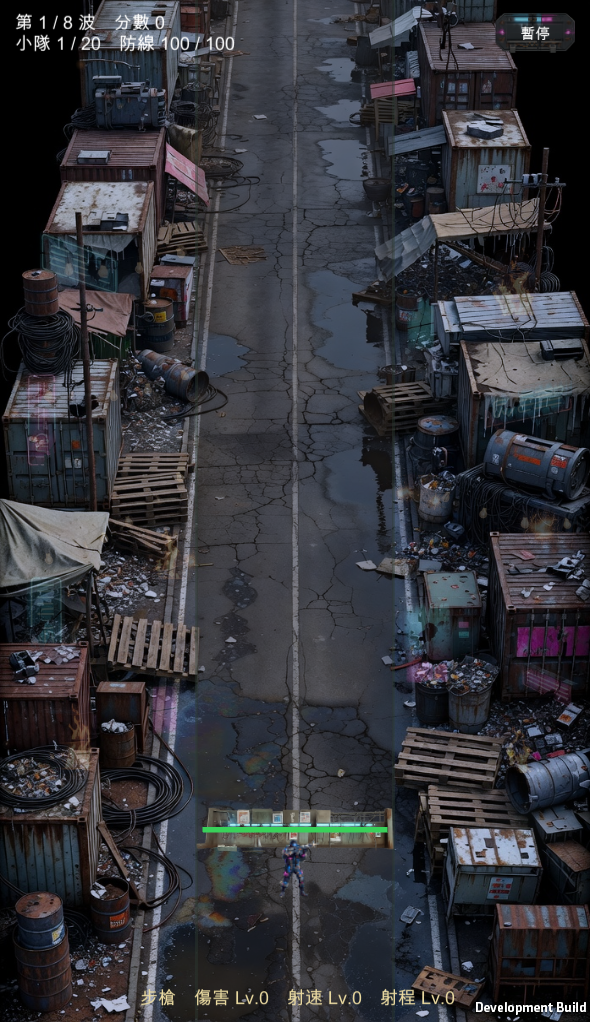
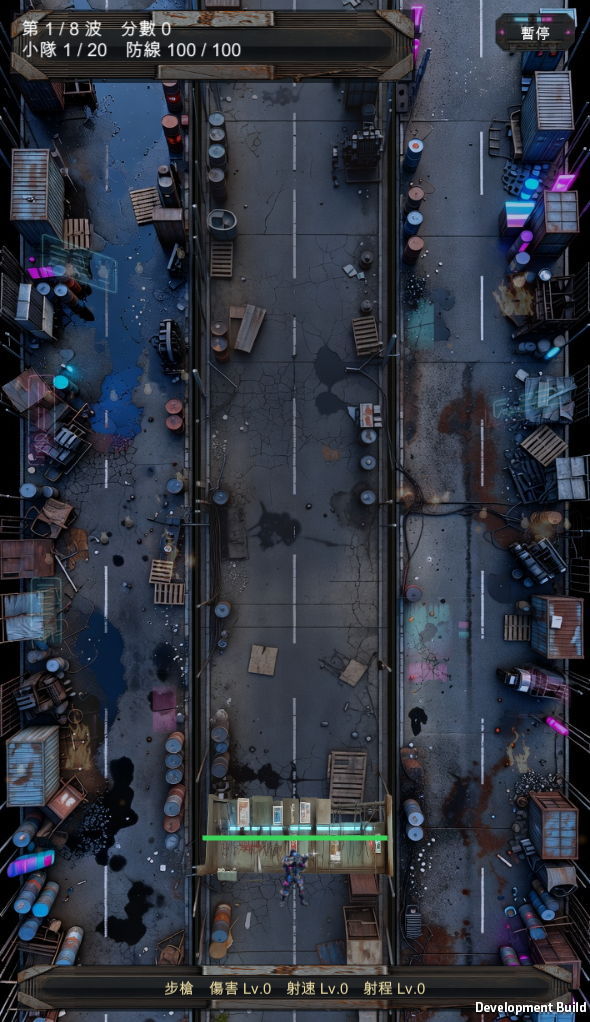
場景預覽頁：加入 v1/v2 補給箱腳下對照

diff --git a/zl-stage.html b/zl-stage.html
@@ -66,8 +66,27 @@ code{font-family:ui-monospace,SFMono-Regular,Menlo,monospace;font-size:.9em;back
   <header>
     <p class="eyebrow">殭屍防禦 · 場景</p>
     <h1>街道背景與日夜循環</h1>
-    <p class="lede">正上方俯視的賽博龐克貧民窟街道，240 秒走完一輪日夜。素材兩張 $0.40，日夜與粒子全部是程式做的。</p>
+    <p class="lede">正上方俯視的賽博龐克貧民窟街道，240 秒走完一輪日夜。日夜與粒子全部是程式做的。底圖已改版到 v2——見下方「補給箱腳下是什麼」。</p>
   </header>
+
+  <h2 class="sec">補給箱腳下是什麼（v1 vs v2）</h2>
+  <figure>
+    <img src="zl-stage/crate-ground-compare.png" alt="兩版底圖在七個補給箱位置的原尺寸切片對照">
+    <figcaption><b>把 7 個補給箱會出現的位置，從底圖上原尺寸切出來。</b>上排 v1、下排 v2。
+      v1 有 5 個落在帆布棚頂或貨櫃頂上，v2 全部是柏油地面。</figcaption>
+  </figure>
+
+  <div class="card">
+    <h2>我先前答錯了一次</h2>
+    <p style="margin:0 0 10px">使用者回報「補給箱像貼在別人家屋頂上」，我回覆「防線固定之後一併解決」。<b>那是錯的</b>——防線固定只解決了箱子會漂移，沒有解決箱子腳下是什麼。上面那張切片圖是實際量測的結果。</p>
+    <p style="margin:0 0 10px">根因不只是箱子。這遊戲有三條車道、小隊可以站到任何一條，而 v1 的 prompt 寫「兩側＝補給區、可以很雜亂」，結果左右兩條整條被貨櫃鋪滿——<b>槍手站過去一樣是站在貨櫃上</b>。v2 改成要求三條同樣寬的通道全部是可走地面，雜物只能放在最外緣與通道之間，而且只能低矮。</p>
+    <p style="margin:0;color:var(--ink-soft);font-size:13.5px">過程中我寫了三種啟發式想自動判斷「腳下是不是高起物」，三種互相矛盾：亮度＋平坦度會把馬路誤判成貨櫃頂，彩度＋暖色抓不到灰綠色的貨櫃。最後放棄分類器，直接把兩版的同一批位置切出來並排看——像素本身就是答案。</p>
+  </div>
+
+  <figure>
+    <img src="zl-stage/lanes-v2.png" alt="遊戲畫面，三條車道都是乾淨的地面，雜物在外緣">
+    <figcaption><b>v2 實機</b>　三條車道都是可走的地面，雜物退到最外緣。</figcaption>
+  </figure>
 
   <h2 class="sec">同一張底圖，三個時間點</h2>
   <div class="grid3">
@@ -123,5 +142,5 @@ code{font-family:ui-monospace,SFMono-Regular,Menlo,monospace;font-size:.9em;back
     <p style="margin:0">有真背景時，車道染色降到 35%、分隔線降到 40%。原本的濃度是為了在純色底上做區分，疊在街道照片上會變成一條蓋住路面的色帶。但不能完全拿掉——「怪從中間那條來」是這款最重要的閱讀線索。</p>
   </div>
 
-  <p class="foot">commit 8b49e02 · 素材 $0.40（兩張都一次過）· 日夜與粒子 $0</p>
+  <p class="foot">commit dbedd2c · 素材 $0.60（白天 v1／v2＋夜間發光層）· 日夜與粒子 $0</p>
 </div>
